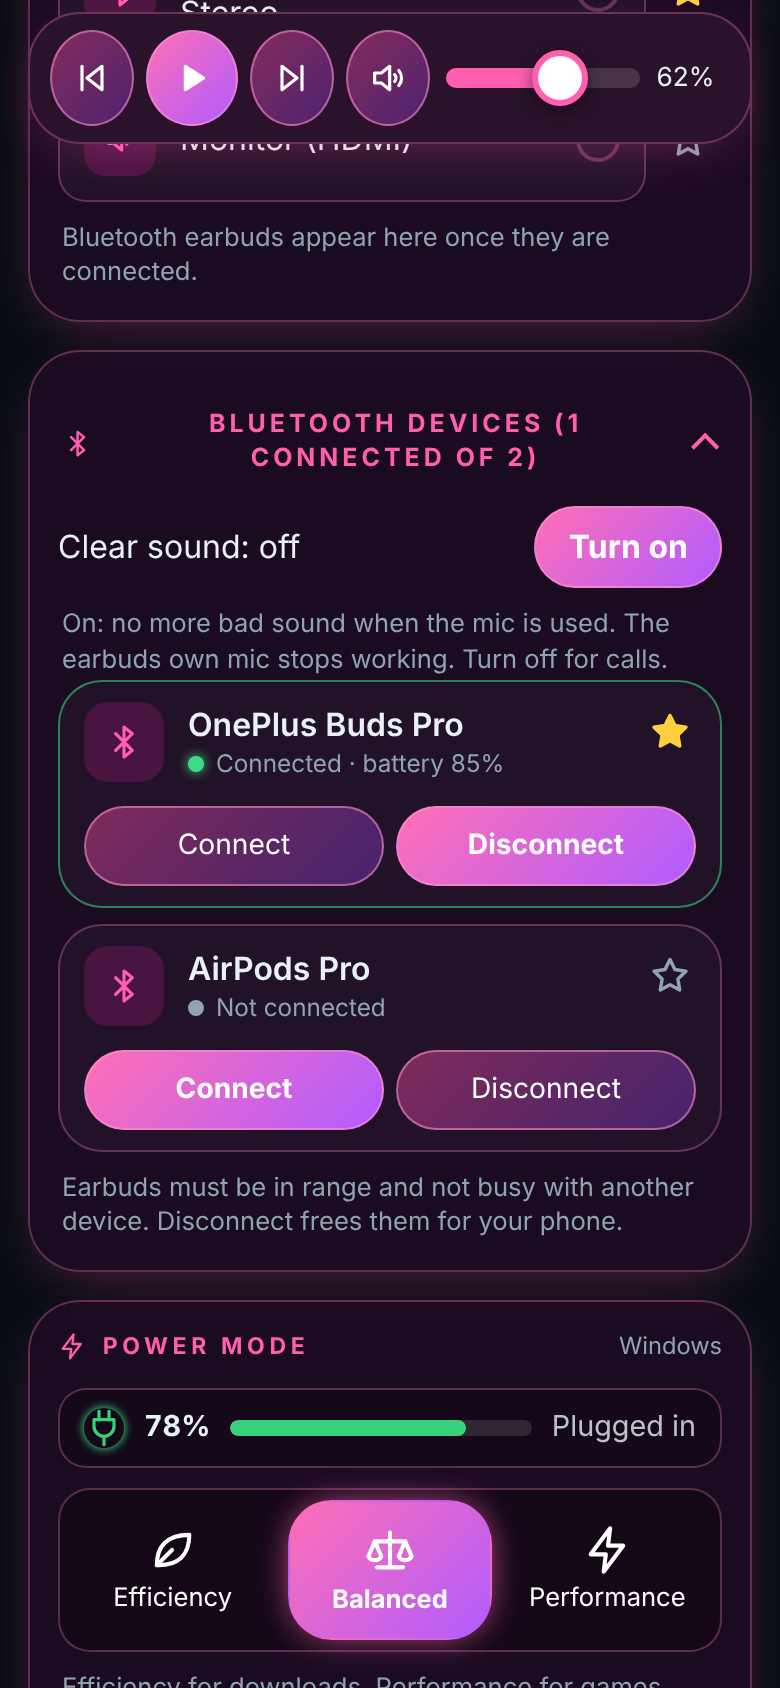
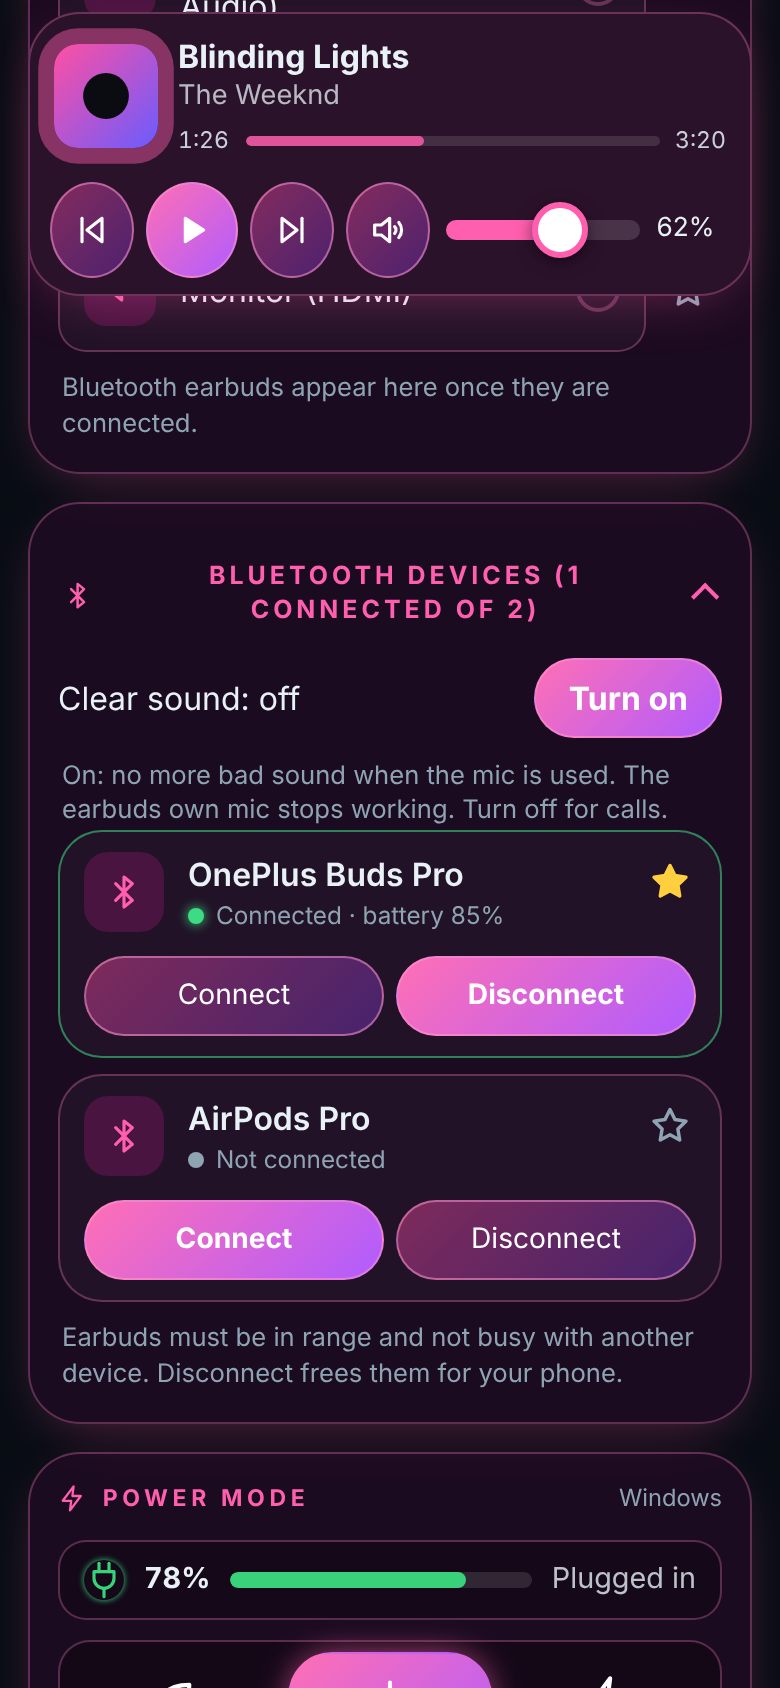
Now playing in the player bar: title, artist, cover, progress
Claude-Session: https://claude.ai/code/session_012UQxDSXoho6XEbKP234m17

diff --git a/src/web/app.js b/src/web/app.js
@@ -774,10 +774,98 @@ function favoritesStrip(pc) {
 
 // The player bar: always at the top (it stays on screen while you scroll). Previous, play or pause, next, mute and the volume slider in ONE row.
 // A PC that cannot report its volume level keeps three small volume keys instead of the slider.
+// -- now playing (read only: what Windows shows in its own media pop-up) -------------------------
+const nowState = { media: null, key: '', cover: '', at: 0, busy: false }
+function fmtTime(sec) {
+  const s = Math.max(0, Math.floor(sec))
+  return Math.floor(s / 60) + ':' + String(s % 60).padStart(2, '0')
+}
+function nowPos() {
+  const m = nowState.media
+  return m ? Math.min(m.end || 0, m.pos + (m.playing ? (Date.now() - nowState.at) / 1000 : 0)) : 0
+}
+function drawNow() {
+  const row = document.querySelector('.nowrow')
+  if (!row) return
+  const m = nowState.media
+  if (!m) {
+    row.hidden = true
+    row.dataset.key = ''
+    return
+  }
+  row.hidden = false
+  const key = m.title + '|' + m.artist
+  if (row.dataset.key !== key) {
+    row.dataset.key = key
+    row.textContent = ''
+    const art = el('div', 'nowart')
+    art.append(icon('note'))
+    const txt = el('div', 'nowtxt')
+    txt.append(el('div', 'nowtitle', m.title), el('div', 'nowartist', m.artist))
+    const prog = el('div', 'nowprog')
+    const meter = el('div', 'nowmeter')
+    meter.append(el('i'))
+    prog.append(el('span', 'nowt1', '0:00'), meter, el('span', 'nowt2', '0:00'))
+    txt.append(prog)
+    row.append(art, txt)
+  }
+  row.classList.toggle('playing', m.playing)
+  const art = row.querySelector('.nowart')
+  if (nowState.cover && art.dataset.cover !== nowState.cover) {
+    art.dataset.cover = nowState.cover
+    art.style.backgroundImage = 'url("' + nowState.cover + '")'
+    art.textContent = ''
+  } else if (!nowState.cover && art.dataset.cover) {
+    delete art.dataset.cover
+    art.style.backgroundImage = ''
+    art.append(icon('note'))
+  }
+  const pos = nowPos()
+  row.querySelector('.nowt1').textContent = fmtTime(pos)
+  row.querySelector('.nowt2').textContent = m.end ? fmtTime(m.end) : ''
+  row.querySelector('.nowmeter i').style.width = (m.end ? Math.min(100, (pos / m.end) * 100) : 0) + '%'
+}
+async function pollNow() {
+  if (document.hidden || nowState.busy || !data || !data.pc || !data.pc.control) return
+  nowState.busy = true
+  try {
+    const j = await call('/api/media')
+    nowState.media = j && j.media ? j.media : null
+    nowState.at = Date.now()
+    const key = nowState.media ? nowState.media.title + '|' + nowState.media.artist : ''
+    if (key !== nowState.key) {
+      nowState.key = key
+      if (nowState.cover) URL.revokeObjectURL(nowState.cover)
+      nowState.cover = ''
+      if (key) {
+        try {
+          const blob = await call('/api/cover')
+          if (blob && nowState.key === key) nowState.cover = URL.createObjectURL(blob)
+        } catch (e) {
+          // No cover: a note symbol is shown.
+        }
+      }
+    }
+  } catch (e) {
+    nowState.media = null
+  }
+  nowState.busy = false
+  drawNow()
+}
+setInterval(pollNow, 4000)
+setInterval(drawNow, 1000)
+setTimeout(pollNow, 800)
+
 function playerBar(pc) {
   const bar = el('div', 'card player')
+  const now = el('div', 'nowrow')
+  now.hidden = true
+  bar.append(now)
   const mk = (name, action, label, cls) => {
-    const b = btn(label, () => act(action), false, undefined, 'pbtn' + (cls ? ' ' + cls : ''))
+    const b = btn(label, () => {
+      act(action)
+      setTimeout(pollNow, 1000)
+    }, false, undefined, 'pbtn' + (cls ? ' ' + cls : ''))
     b.textContent = ''
     b.append(icon(name))
     b.title = label
@@ -826,6 +914,7 @@ function playerBar(pc) {
   } else {
     bar.append(mk('voldown', 'volume_down', 'Volume down'), mk('mute', 'mute', 'Mute'), mk('volup', 'volume_up', 'Volume up'))
   }
+  setTimeout(drawNow, 0)
   return bar
 }
 

diff --git a/src/web/app.css b/src/web/app.css
@@ -293,3 +293,17 @@ select.field{max-width:190px}
 .batt.low .meter i{background:#ff6b6b}
 .batt span{opacity:.8;white-space:nowrap}
 .batt.plugged svg{color:#38d27a;animation:pulse 2s infinite;border-radius:50%}
+
+/* ---- now playing (inside the pinned player bar) ---- */
+.player{flex-wrap:wrap}
+.nowrow{flex:1 1 100%;display:flex;align-items:center;gap:10px;padding:2px 2px 6px}
+.nowrow[hidden]{display:none}
+.nowart{flex:0 0 52px;width:52px;height:52px;border-radius:12px;background:rgba(255,255,255,.1) center/cover no-repeat;display:flex;align-items:center;justify-content:center;box-shadow:0 4px 14px -6px #000}
+.nowart svg{width:24px;height:24px;opacity:.8}
+.nowrow.playing .nowart{animation:ping 2.4s infinite}
+.nowtxt{flex:1;min-width:0}
+.nowtitle{font-weight:700;white-space:nowrap;overflow:hidden;text-overflow:ellipsis}
+.nowartist{font-size:.85rem;opacity:.75;white-space:nowrap;overflow:hidden;text-overflow:ellipsis}
+.nowprog{display:flex;align-items:center;gap:8px;margin-top:4px;font-size:.72rem;opacity:.85;font-variant-numeric:tabular-nums}
+.nowmeter{flex:1;height:5px;border-radius:99px;background:rgba(255,255,255,.14);overflow:hidden}
+.nowmeter i{display:block;height:100%;border-radius:99px;background:var(--a);transition:width 1s linear}

diff --git a/src/web/common.js b/src/web/common.js
@@ -83,6 +83,7 @@ const ICONS = {
   leaf: ['M5 19c0-8 4-14 15-14 0 10-6 14-14 14z', 'M5 19l7-7'],
   balance: ['M12 4v16', 'M6 20h12', 'M5 8h14', 'M5 8l-3 7a3.5 3.5 0 0 0 6 0z', 'M19 8l-3 7a3.5 3.5 0 0 0 6 0z'],
   bolt: ['M13 2L4 14h7l-1 8 9-12h-7z'],
+  note: ['M9 18V5l11-2v13', 'M9 18a3 3 0 1 1-6 0 3 3 0 0 1 6 0z', 'M20 16a3 3 0 1 1-6 0 3 3 0 0 1 6 0z'],
   plug: ['M9 2v5', 'M15 2v5', 'M6 7h12v4a6 6 0 0 1-12 0z', 'M12 17v5'],
   bat: ['M3 8h15a1 1 0 0 1 1 1v6a1 1 0 0 1-1 1H3a1 1 0 0 1-1-1V9a1 1 0 0 1 1-1z', 'M21 11v2'],
   download: ['M12 3v12', 'M7 11l5 5 5-5', 'M5 21h14'],

diff --git a/context.md b/context.md
@@ -236,3 +236,8 @@ Tests: swr sharing/parallel/stale, timings, volume coalescing, gzip+ETag+304, pr
 ## Battery in Power mode + livelier buttons (owner, 2026-11-22: "Keep it, add the animations")
 - Battery % + bar + plug icon (green, pulsing when plugged in; battery icon, red <=20% on battery) moved from under the laptop name into the Power mode card (.batt, icons plug/bat in common.js).
 - Buttons: spring on press, icon wiggle, light ripple, brightness on hover; cards slide in one after another; selected power mode glows. All off with prefers-reduced-motion (existing rule). README screenshots retaken.
+
+## Now playing (owner, 2026-11-22: "go, build the Now playing card"; chose: inside the pinned player bar; cover + title/artist + progress bar; hidden when nothing plays)
+- src/media.mjs: PowerShell reads Windows media controls (SMTC: GlobalSystemMediaTransportControlsSessionManager) -> title, artist, status, pos, end; cover as base64 (<=1.5 MB, only real PNG/JPEG/WEBP by first bytes). Read only, any player (Spotify, browser, VLC).
+- actions.media() = swr 3 s; actions.cover() = once per song. Server routes POST /api/media (json) and /api/cover (picture, 204 if none), paired phone only. NOT part of info() (slow WinRT call), the page polls every 4 s while visible and moves the bar each second itself; prev/play/next re-poll after 1 s.
+- Not tested on real Windows (SMTC script parse is checked by CI on Windows). Owner to check: play music, press Update icon, the bar shows song + cover.

diff --git a/README.md b/README.md
@@ -1,6 +1,6 @@
 # RemotePc
 
-**Control your Windows PC from your phone.** Lock it, put the screen off, restart it, open Steam and start a game (installed games are found automatically, on any drive), change the volume and sound output, connect your earbuds (and keep their sound clear when the mic is on), open apps, and more. Three steps to install, one QR code to pair. No account with us, no cloud, no subscription.
+**Control your Windows PC from your phone.** Lock it, put the screen off, restart it, open Steam and start a game (installed games are found automatically, on any drive), see what is playing, change the volume and sound output, connect your earbuds (and keep their sound clear when the mic is on), open apps, and more. Three steps to install, one QR code to pair. No account with us, no cloud, no subscription.
 
 <p>
 <img src="docs/img/phone-home.png" alt="The phone page: power menu, Lock, Screen off, Steam with game picker" width="260">

diff --git a/docs/HOW-IT-WORKS.md b/docs/HOW-IT-WORKS.md
@@ -22,6 +22,7 @@
 | `Fix-It.cmd`, `bin/doctor.mjs`, `src/doctor.mjs` | Check everything and explain |
 | `Update.cmd`, `bin/update.mjs`, `src/updater.mjs`, `src/unzip.mjs` | Download the newest version as a zip and swap it in |
 | `Uninstall.cmd`, `bin/uninstall.mjs` | Remove it |
+| `src/media.mjs` | Now playing (title, artist, cover, progress) read from Windows media controls, read only |
 | `Bluetooth-Sound-Setup.cmd`, `bin/handsfree-setup.mjs`, `src/handsfree.mjs` | One-time admin setup of the "Clear sound" switch (two fixed Windows tasks that turn earbuds' Hands-Free mode off or on) |
 | `Wake-on-LAN-Setup.cmd`, `bin/wake-setup.mjs`, `src/wol.mjs`, `src/wake.mjs` | Get a PC ready to be started, send the magic packet |
 | `src/server.mjs`, `src/auth.mjs`, `src/net.mjs` | The server, the phone keys, which networks are allowed |
